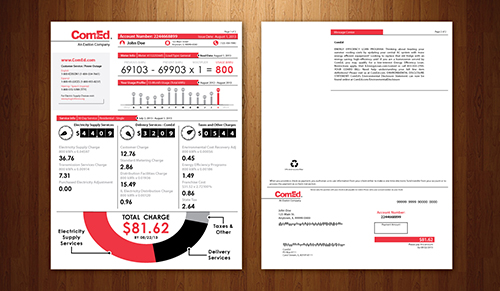
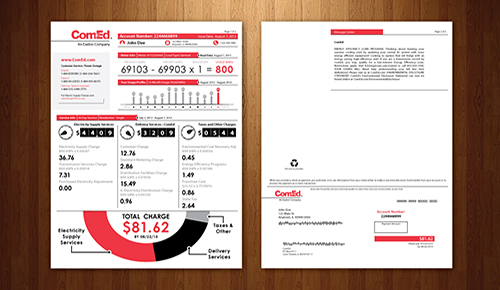
added posters

diff --git a/index.html b/index.html
@@ -79,12 +79,12 @@
 				<div class="sub-sec-title">
 					<h3>Print Design</h3>
 				</div>
-				<div class="content-featured">
-					<div>
+				<div class="content-featured group">
+					<div class="left content">
 						<img src="./assets/images/portfolio-images/transparent-full.jpg" alt="content">
 					</div>
-					<div>
-						<img src="./assets/images/portfolio-images/transparent-full.jpg" alt="content">
+					<div class="right content">
+						<img src="./assets/images/portfolio-images/ComEd-full.jpg" alt="content">
 					</div>
 				</div>
 			</div>
@@ -93,8 +93,19 @@
 				<div class="sub-sec-title">
 					<h3>Fan Art Posters</h3>
 				</div>
-				<div class="content">
-					
+				<div class="content-featured group">
+					<div class="content">
+						<img src="./assets/images/portfolio-images/starlord.png" alt="content">
+					</div>
+					<div class="content">
+						<img src="./assets/images/portfolio-images/arrow.png" alt="content">
+					</div>
+					<div class="content">
+						<img src="./assets/images/portfolio-images/the-flash.png" alt="content">
+					</div>
+					<div class="content">
+						<img src="./assets/images/portfolio-images/mumford-and-sons.png" alt="content">
+					</div>
 				</div>
 			</div>
 

diff --git a/assets/css/main.css b/assets/css/main.css
@@ -447,6 +447,36 @@ section.section {
 	padding-top: 30px;
 }
 
+.print-design .content-featured .content {
+	width: 47%;
+}
+
+.fan-art .content-featured {
+	text-align: center;
+}
+
+.fan-art .content-featured .content {
+	width: 20%;
+	display: inline-block;
+	padding-right: 68px;
+}
+
+.fan-art .content-featured .content:last-child {
+	padding-right: 0;
+}
+
+.content-featured .content img {
+	width: 100%;
+}
+
+.content-featured .left {
+	float: left;
+}
+
+.content-featured .right {
+	float: right;
+}
+
 /*.portfolio-list {
 	float: left;
 }
